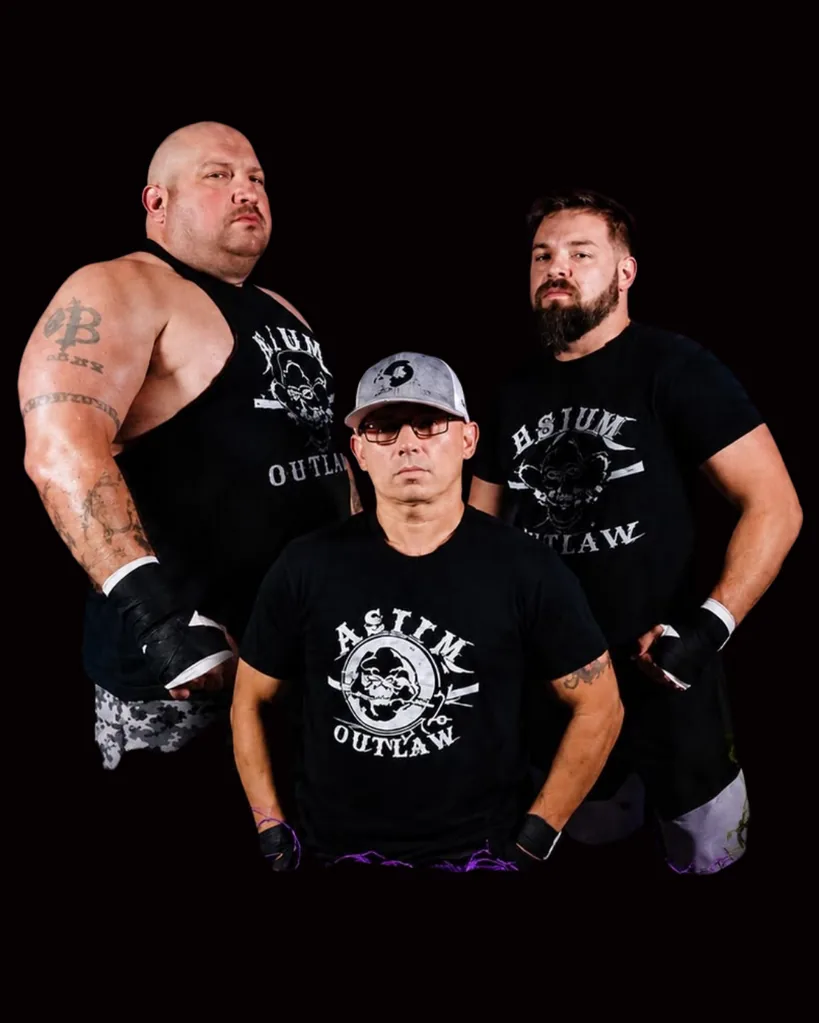
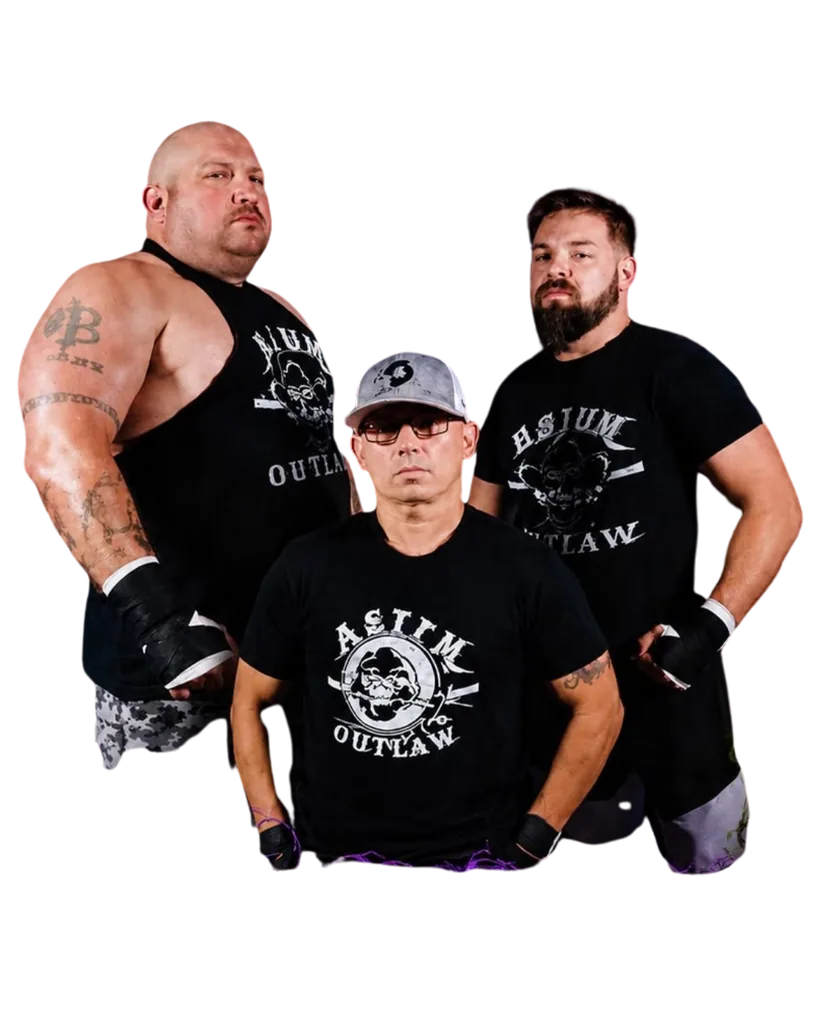
v2.13.2 — fix 6 new wrestler photos: preserve RGBA transparency so red card background shows through

diff --git a/faw/functions.php b/faw/functions.php
@@ -9,7 +9,7 @@
 
 if ( ! defined( 'ABSPATH' ) ) exit;
 
-define( 'FAW_VERSION', '2.13.1' );
+define( 'FAW_VERSION', '2.13.2' );
 define( 'FAW_DIR', get_stylesheet_directory() );
 define( 'FAW_URI', get_stylesheet_directory_uri() );
 
